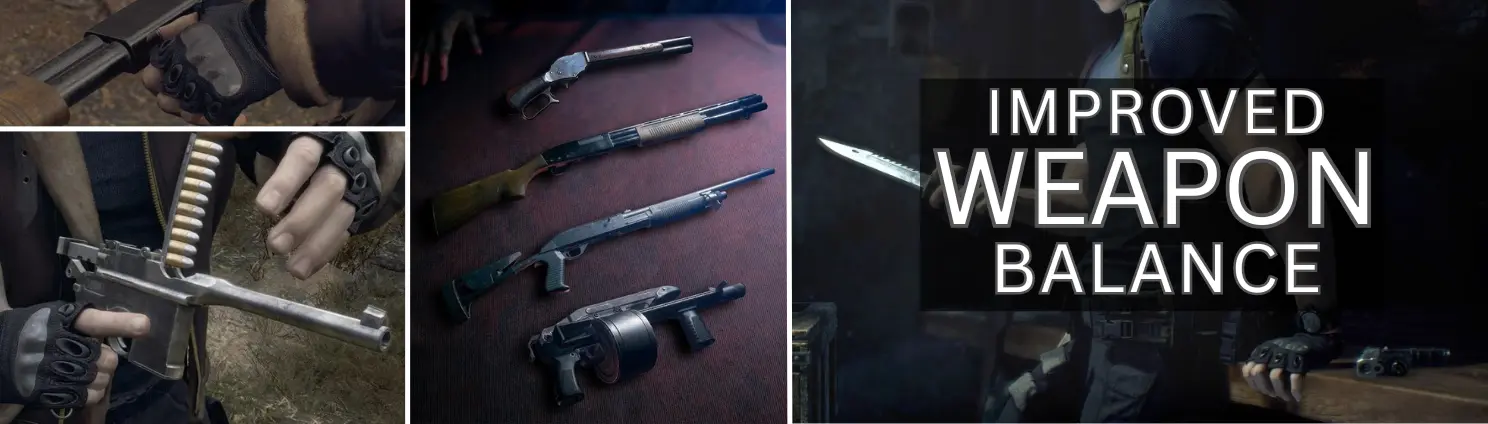
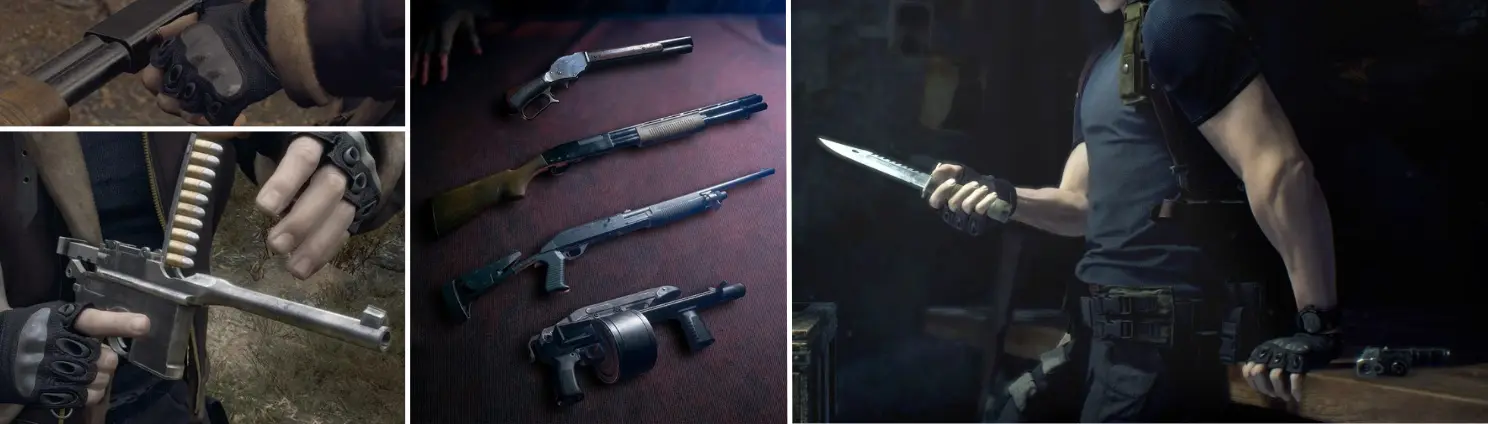
feat(assets): replace mod images with NOTEXT versions
- Replaced 12 mod images (6 thumbnails + 6 heroes) with text-free versions
- User-provided NOTEXT PNGs converted to WebP format
- Added ?v=2 cache-busting query strings to mods.ts paths
- Updated test regex patterns to allow query strings in image paths

Rationale: Text overlay on thumbnails was redundant with card titles
and cluttered the visual presentation.

Context: tasks-visual-polish.md (Task 5.7)

Changed region(s): [[0.6183, 0.184, 0.9274, 0.7358]]

diff --git a/src/data/__tests__/projects-images.test.ts b/src/data/__tests__/projects-images.test.ts
@@ -51,8 +51,8 @@ describe("Projects Image Data Validation", () => {
           // Should start with /thumbnails/
           expect(project.images.thumbnail).toMatch(/^\/thumbnails\//);
 
-          // Should end with .webp or .jpg (migrating from .jpg to .webp)
-          expect(project.images.thumbnail).toMatch(/\.(webp|jpg)$/);
+          // Should end with .webp or .jpg (with optional cache-busting query string)
+          expect(project.images.thumbnail).toMatch(/\.(webp|jpg)(\?v=\d+)?$/);
         }
       });
     });
@@ -88,8 +88,8 @@ describe("Projects Image Data Validation", () => {
           // Should start with /projects/{slug}/
           expect(screenshot.src).toMatch(/^\/projects\/[^/]+\//);
 
-          // Should be screenshot-N.webp or screenshot-N.jpg
-          expect(screenshot.src).toMatch(/screenshot-\d+\.(webp|jpg)$/);
+          // Should be screenshot-N.webp or screenshot-N.jpg (with optional cache-busting)
+          expect(screenshot.src).toMatch(/screenshot-\d+\.(webp|jpg)(\?v=\d+)?$/);
         });
       });
     });
@@ -160,15 +160,21 @@ describe("Projects Image Data Validation", () => {
   });
 
   describe("Image Migration Status", () => {
+    // Helper to get file extension, ignoring query strings
+    const getExtension = (path: string) => {
+      const withoutQuery = path.split("?")[0];
+      return withoutQuery.endsWith(".webp") ? "webp" : "jpg";
+    };
+
     it("should identify projects with WebP images (migrated)", () => {
-      const migratedProjects = projects.filter((p) => p.images.thumbnail.endsWith(".webp"));
+      const migratedProjects = projects.filter((p) => getExtension(p.images.thumbnail) === "webp");
 
       // Should have at least the 6 Squarespace projects migrated
       expect(migratedProjects.length).toBeGreaterThanOrEqual(6);
     });
 
     it("should identify projects pending migration (JPG images)", () => {
-      const pendingProjects = projects.filter((p) => p.images.thumbnail.endsWith(".jpg"));
+      const pendingProjects = projects.filter((p) => getExtension(p.images.thumbnail) === "jpg");
 
       // Each pending project should be valid
       pendingProjects.forEach((project) => {
@@ -178,10 +184,10 @@ describe("Projects Image Data Validation", () => {
 
     it("should have consistent image format within each project", () => {
       projects.forEach((project) => {
-        const thumbnailFormat = project.images.thumbnail.endsWith(".webp") ? "webp" : "jpg";
+        const thumbnailFormat = getExtension(project.images.thumbnail);
 
         project.images.screenshots.forEach((screenshot) => {
-          const screenshotFormat = screenshot.src.endsWith(".webp") ? "webp" : "jpg";
+          const screenshotFormat = getExtension(screenshot.src);
           expect(screenshotFormat).toBe(thumbnailFormat);
         });
       });
@@ -244,8 +250,8 @@ describe("Projects Image Data Validation", () => {
       projects.forEach((project) => {
         // Empty thumbnails are allowed (trigger placehold.co fallback)
         if (project.images.thumbnail) {
-          // Slug should be lowercase with hyphens, no underscores or spaces
-          const slugPattern = /^\/thumbnails\/[a-z0-9]+(-[a-z0-9]+)*\.(webp|jpg)$/;
+          // Slug should be lowercase with hyphens, no underscores or spaces (with optional cache-busting)
+          const slugPattern = /^\/thumbnails\/[a-z0-9]+(-[a-z0-9]+)*\.(webp|jpg)(\?v=\d+)?$/;
           expect(project.images.thumbnail).toMatch(slugPattern);
         }
       });
@@ -266,7 +272,7 @@ describe("Projects Image Data Validation", () => {
       squarespaceSlugs.forEach((slug) => {
         const project = projects.find((p) => p.slug === slug);
         expect(project).toBeDefined();
-        expect(project?.images.thumbnail).toMatch(/\.webp$/);
+        expect(project?.images.thumbnail).toMatch(/\.webp(\?v=\d+)?$/);
       });
     });
 

diff --git a/src/data/mods.ts b/src/data/mods.ts
@@ -51,8 +51,8 @@ export const mods: Project[] = [
       nexusmods: "https://www.nexusmods.com/liesofp/mods/304",
     },
     images: {
-      thumbnail: "/thumbnails/lies-of-p-hardcore-mode.webp",
-      hero: "/projects/lies-of-p-hardcore-mode/hero.webp",
+      thumbnail: "/thumbnails/lies-of-p-hardcore-mode.webp?v=2",
+      hero: "/projects/lies-of-p-hardcore-mode/hero.webp?v=2",
       screenshots: [],
     },
     order: 3,
@@ -108,8 +108,8 @@ export const mods: Project[] = [
       nexusmods: "https://www.nexusmods.com/streetsofrage4/mods/178",
     },
     images: {
-      thumbnail: "/thumbnails/sor4-improved-movement.webp",
-      hero: "/projects/sor4-improved-movement/hero.webp",
+      thumbnail: "/thumbnails/sor4-improved-movement.webp?v=2",
+      hero: "/projects/sor4-improved-movement/hero.webp?v=2",
       screenshots: [],
     },
     order: 4,
@@ -143,8 +143,8 @@ export const mods: Project[] = [
       nexusmods: "https://www.nexusmods.com/residentevilvillage/mods/403",
     },
     images: {
-      thumbnail: "/thumbnails/re8-aim-dependent-crosshair.webp",
-      hero: "/projects/re8-aim-dependent-crosshair/hero.webp",
+      thumbnail: "/thumbnails/re8-aim-dependent-crosshair.webp?v=2",
+      hero: "/projects/re8-aim-dependent-crosshair/hero.webp?v=2",
       screenshots: [],
     },
     order: 5,
@@ -186,8 +186,8 @@ export const mods: Project[] = [
       nexusmods: "https://www.nexusmods.com/eldenring/mods/5128",
     },
     images: {
-      thumbnail: "/thumbnails/elden-ring-guard-parry.webp",
-      hero: "/projects/elden-ring-guard-parry/hero.webp",
+      thumbnail: "/thumbnails/elden-ring-guard-parry.webp?v=2",
+      hero: "/projects/elden-ring-guard-parry/hero.webp?v=2",
       screenshots: [],
     },
     order: 2,
@@ -240,8 +240,8 @@ export const mods: Project[] = [
       nexusmods: "https://www.nexusmods.com/residentevil42023/mods/3016",
     },
     images: {
-      thumbnail: "/thumbnails/re4r-improved-weapon-balance.webp",
-      hero: "/projects/re4r-improved-weapon-balance/hero.webp",
+      thumbnail: "/thumbnails/re4r-improved-weapon-balance.webp?v=2",
+      hero: "/projects/re4r-improved-weapon-balance/hero.webp?v=2",
       screenshots: [],
     },
     order: 1,
@@ -281,8 +281,8 @@ export const mods: Project[] = [
       nexusmods: "https://www.nexusmods.com/silenthill2/mods/199",
     },
     images: {
-      thumbnail: "/thumbnails/sh2r-never-holster-weapons.webp",
-      hero: "/projects/sh2r-never-holster-weapons/hero.webp",
+      thumbnail: "/thumbnails/sh2r-never-holster-weapons.webp?v=2",
+      hero: "/projects/sh2r-never-holster-weapons/hero.webp?v=2",
       screenshots: [],
     },
     order: 6,
